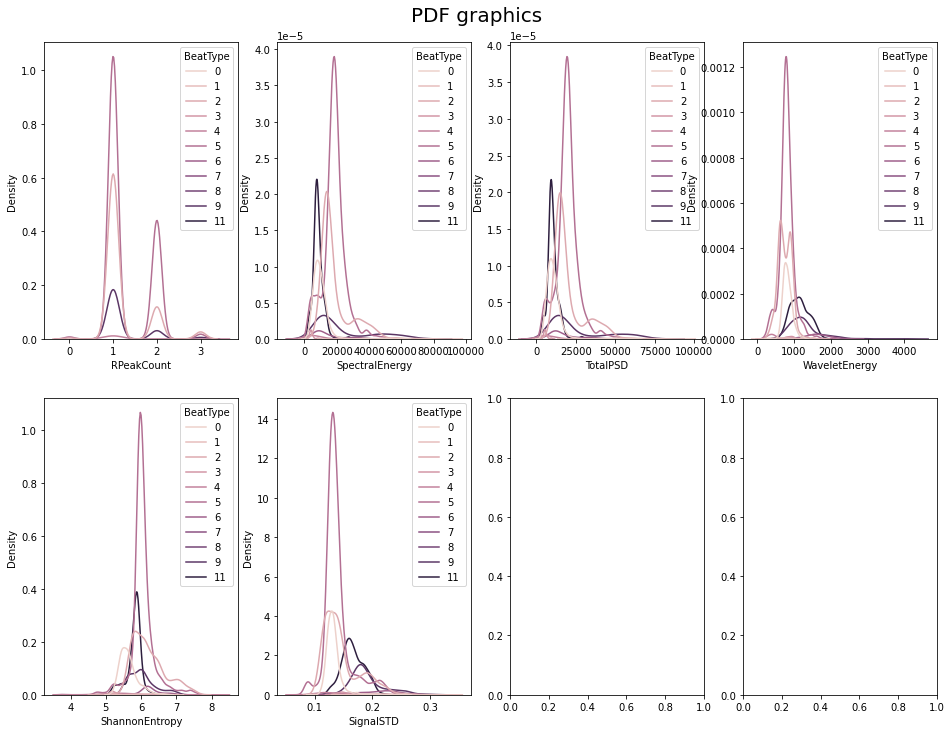
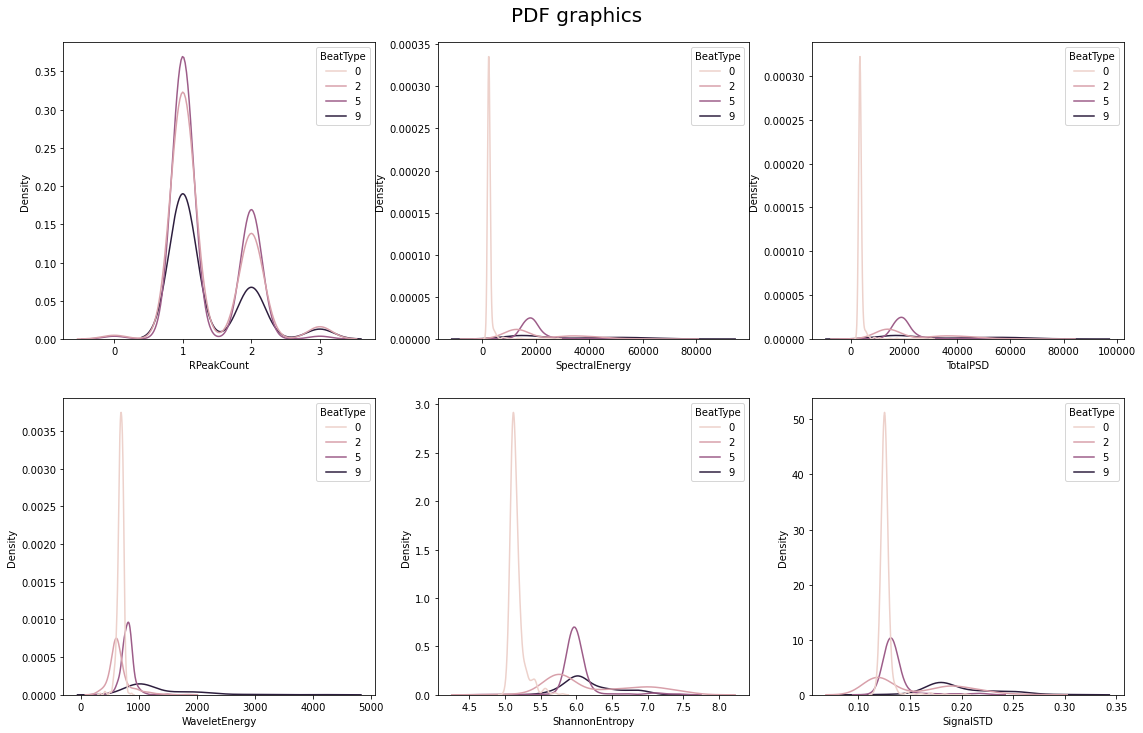
AD_20: New Images

diff --git a/ModelCreation/ModelPreparation.py b/ModelCreation/ModelPreparation.py
@@ -165,13 +165,13 @@ def main():
     
     annotation_mapping = {
         # Beats Normales y Bloqueos de Rama
-        "N": 0, "L": 1, "R": 2, "e": 3, "j": 4,
+        "N": 0, "R": 2,#"L": 1,  "e": 3, "j": 4,
         # Beats Atriales
-        "A": 5, "a": 6, "S": 7,
+        "A": 5, #"a": 6, "S": 7,
         # Beats Nodales
-        "J": 8, 
+        #"J": 8, 
         # Beats Ventriculares
-        "V": 9, "E": 10, "F": 11, "!": 12,
+        "V": 9 #,"E": 10, "F": 11, #"!": 12,
         # Beats Marcados (Paced)
         #"/": 13, "f": 14
         # Beats No Clasificables y Artefactos
